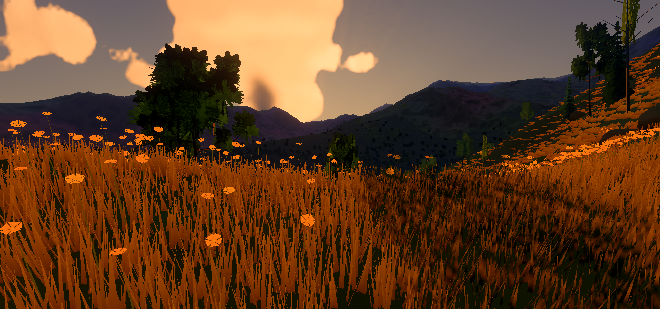
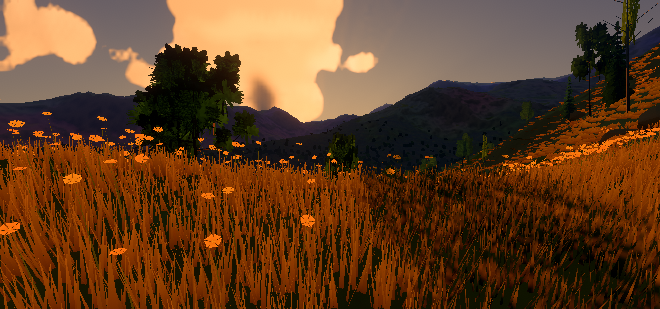
Grass wears the ground's own mix of green and gold; clumps even in tone from above; pictures
Claude-Session: https://claude.ai/code/session_01XG1DZ6vKJWJCvxUHNSpiWP

diff --git a/src/life/grass.js b/src/life/grass.js
@@ -119,7 +119,11 @@ const PRELUDE = /* glsl */`
   uniform vec2 uGrassLie;            // the anchor on the plane counted from the grass's origin, modulo PERIOD (m)
   uniform vec2 uLatOrigin;           // ... and in this lattice's cells, modulo 4096
   uniform vec4 uGrassKeep;           // how much is kept by the height of the traveller: x blades, y clumps; z the governor's share of the clumps, w how much wider they are for it
+  uniform vec4 uGrassTone;           // x: how dry the grass round the traveller is in the mean (the ground under it is painted with this)
   ${GRASS_GLSL}
+  // how dry a tuft is: mostly what the ground under it is painted as, a little its own place's
+  // (by its own place's alone, a green stretch of blades stood on golden ground: a dark smear)
+  float dryHere(float own) { return mix(own, uGrassTone.x, 0.7); }
   out vec3 vRel; out vec4 vAlb;      // the surface's colour, and how much of the sky's light it has
   vec2 hash2(vec2 p) { vec3 q = fract(vec3(p.xyx) * vec3(0.1031, 0.1030, 0.0973)); q += dot(q, q.yzx + 33.33); return fract((q.xx + q.yz) * q.zy); }
   // a ground table at a place of the plane (at, m from the anchor): the four entries round it, blended
@@ -189,7 +193,7 @@ const GRASS_VERT = /* glsl */`
     vRel = uGrassEast * p2.x + uGrassNorth * p2.y + uGrassUp * up;
     // green grass and dry grass, each darker at the foot (the blades shade each other
     // there); paler where the wind's wave bows them
-    vAlb = vec4(grassColour(g.b + (h.x - 0.5) * 0.16 - 0.22 * lie, y) * (0.85 + 0.3 * h.x) * (0.92 + 0.12 * lie) * (0.94 + 0.12 * w.z), 0.55 + 0.45 * y);
+    vAlb = vec4(grassColour(dryHere(g.b) + (h.x - 0.5) * 0.16 - 0.10 * lie, y) * (0.85 + 0.3 * h.x) * (0.92 + 0.12 * lie) * (0.94 + 0.12 * w.z), 0.55 + 0.45 * y);
     gl_Position = projectionMatrix * viewMatrix * vec4(vRel, 1.0);
   }`;
 
@@ -251,7 +255,7 @@ const CLUMP_VERT = /* glsl */`
   ${PRELUDE}
   ${FLOWERS_GLSL}
   out vec3 vUv;                      // the picture (u, v), and how far across the card (-1..1)
-  out vec3 vFoot, vTip; out vec4 vFlower; out vec4 vSlope;
+  out vec3 vFoot, vTip; out vec4 vFlower; out vec4 vSlope; out float vEven;
   void main() {
     vec2 cell, rc = latticeCell(cell), h = hash2(cell), h2 = hash2(cell + 17.31);
     vec2 rel2 = rc + (h - 0.5) * 0.98 * SPACING, at = rel2 + uGrassCam.xy;
@@ -281,7 +285,7 @@ const CLUMP_VERT = /* glsl */`
     float y = aCorner.y;
     vRel = foot + side * (aCorner.x * 0.5 * wide) + cup * (y * tall) + (uGrassEast * w.x + uGrassNorth * w.y) * (tall * 1.4 * y * y);
     vUv = vec3((aCorner.x * 0.5 + 0.5) * wide / (4.0 * tall / ${(PIC_W / PIC_H / 4).toFixed(3)}) + h2.x * 7.0, y, aCorner.x);
-    float dry = g.b + (h.x - 0.5) * 0.16 - 0.22 * lie, shade = (0.85 + 0.3 * h2.y) * (0.92 + 0.12 * lie) * (0.94 + 0.12 * w.z);
+    float dry = dryHere(g.b) + (h.x - 0.5) * 0.16 - mix(0.10, 0.2, smoothstep(30.0, 120.0, dist)) * lie, shade = (0.85 + 0.3 * h2.y) * (0.92 + 0.12 * lie) * (0.94 + 0.12 * w.z);
     vFoot = grassColour(dry, 0.0) * shade; vTip = grassColour(dry, 1.0) * shade;
     // (flowers: the drift this clump stands in says what kind and how many clumps carry some)
     float fk = tableNearest(tTable, uTab, at).a, kind = floor(fk + 0.001);
@@ -294,6 +298,9 @@ const CLUMP_VERT = /* glsl */`
     float h00 = texelFetch(tTable, ivec2(mod(fc, uTab.w)), 0).r;
     vec2 dh = (vec2(texelFetch(tTable, ivec2(mod(fc + vec2(1.0, 0.0), uTab.w)), 0).r, texelFetch(tTable, ivec2(mod(fc + vec2(0.0, 1.0), uTab.w)), 0).r) - h00) / uTab.z;
     vSlope = vec4(normalize(uGrassUp - uGrassEast * dh.x - uGrassNorth * dh.y), smoothstep(12.0, 45.0, dist));
+    // (looked down on, or far off, a clump is the ground's own grass colour with a tufted
+    // edge: its dark foot showing from above was a field of dark specks that ended in an arc)
+    vEven = 0.85 * max(rise, smoothstep(120.0, 420.0, dist));
     vAlb = vec4(0.0, 0.0, 0.0, 1.0);
     gl_Position = projectionMatrix * viewMatrix * vec4(vRel, 1.0);
   }`;
@@ -312,7 +319,7 @@ const FRAG = /* glsl */`${LIGHTING_PARS}
   }
   #ifdef CLUMP
   uniform sampler2D tClump;
-  in vec3 vUv; in vec3 vFoot, vTip; in vec4 vFlower; in vec4 vSlope;
+  in vec3 vUv; in vec3 vFoot, vTip; in vec4 vFlower; in vec4 vSlope; in float vEven;
   void main() {
     vec4 p = texture(tClump, vUv.xy);
     // (the card's ends rounded off; and the cut kept as sharp far off as near, where the
@@ -322,9 +329,10 @@ const FRAG = /* glsl */`${LIGHTING_PARS}
     float lod = 0.5 * log2(max(dot(dFdx(tp), dFdx(tp)), dot(dFdy(tp), dFdy(tp))));
     cov *= 1.0 + 0.28 * clamp(lod, 0.0, 5.0);
     if (cov < 0.5) discard;
-    vec3 alb = mix(vFoot, vTip, p.g);
+    float tone = mix(p.g, 0.62, vEven);
+    vec3 alb = mix(vFoot, vTip, tone);
     alb = mix(alb, vFlower.rgb, p.b * vFlower.a);
-    fragColor = vec4(grassLit(alb, 0.55 + 0.45 * p.g, vSlope) * uExposure, 1.0);
+    fragColor = vec4(grassLit(alb, 0.55 + 0.45 * tone, vSlope) * uExposure, 1.0);
   }
   #else
   void main() { fragColor = vec4(grassLit(vAlb.rgb, vAlb.a, vec4(0.0)) * uExposure, 1.0); }
@@ -381,7 +389,7 @@ export class Grass {
       ...lightingUniforms(),
       uGrassCam: { value: new THREE.Vector3() }, uGrassCurve: { value: new THREE.Vector2() }, uGrassLie: { value: new THREE.Vector2() },
       uGrassEast: { value: new THREE.Vector3(1, 0, 0) }, uGrassNorth: { value: new THREE.Vector3(0, 1, 0) }, uGrassUp: { value: new THREE.Vector3(0, 0, 1) },
-      uGrassWind: wind, uGrassWave: this.waveU, uGrassKeep: { value: new THREE.Vector4(1, 1, 1, 1) },
+      uGrassWind: wind, uGrassWave: this.waveU, uGrassKeep: { value: new THREE.Vector4(1, 1, 1, 1) }, uGrassTone: terrain.shared.uGrassTone,
     };
     this.clumpTex = makeClumpPicture();
     // a field: one tuft (or flower, or clump) of triangles, drawn once for every place of its lattice
